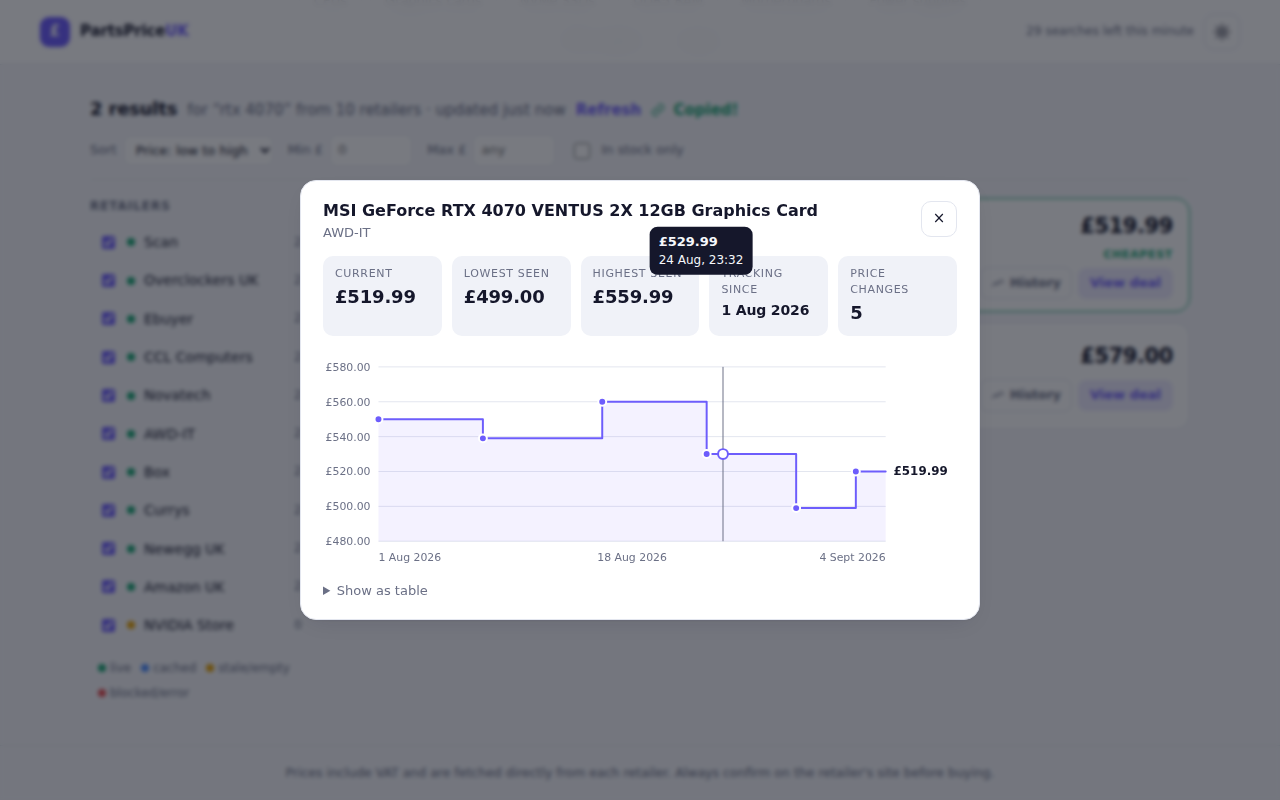
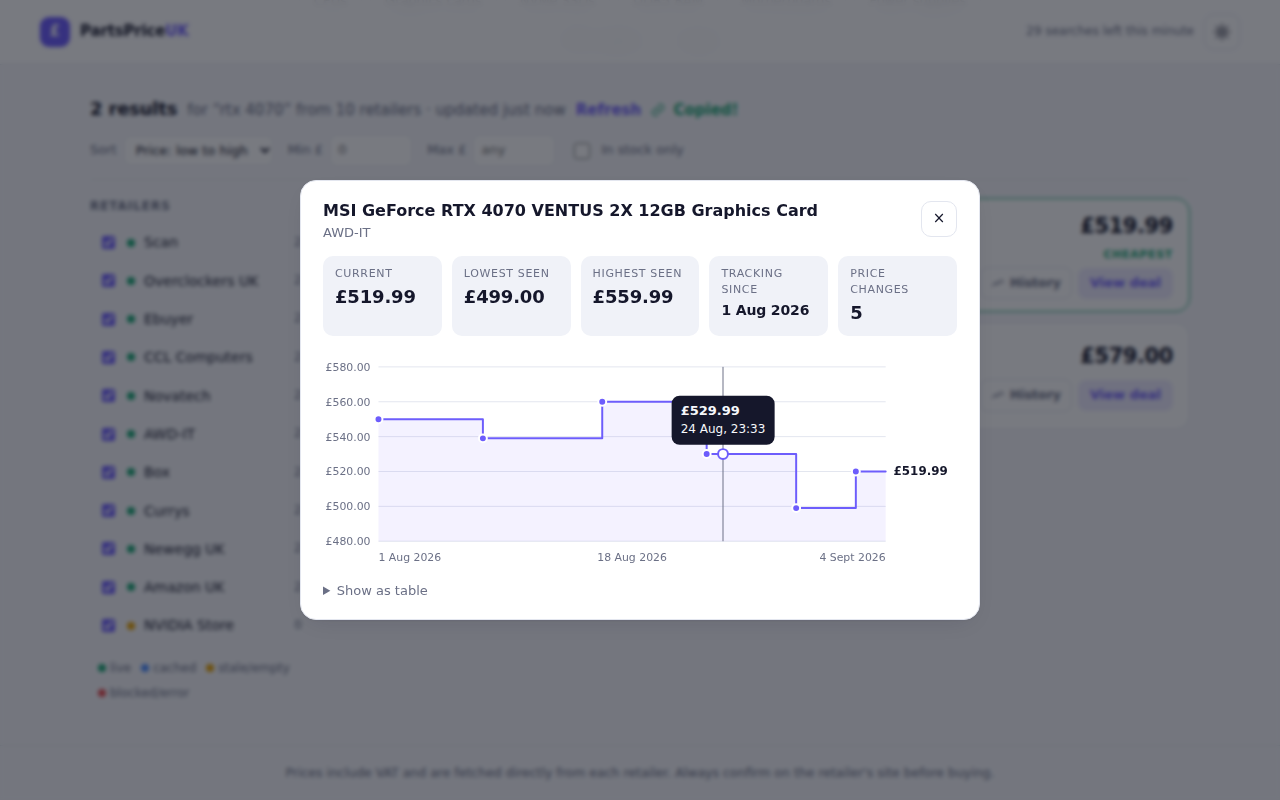
Anchor the price history tooltip to the chart box
Claude-Session: https://claude.ai/code/session_015ougPvyAGFyaDdxd93WSHc

Changed region(s): [[0.5, 0.4688, 0.625, 0.5625], [0.5, 0.2812, 0.5938, 0.3438]]

diff --git a/pc-parts-scraper/app/static/app.js b/pc-parts-scraper/app/static/app.js
@@ -332,7 +332,7 @@
     };
     svg.addEventListener("mousemove", onMove);
     svg.addEventListener("mouseleave", () => { cursor.style.opacity = 0; dot.style.opacity = 0; els.hTip.hidden = true; });
-    els.hChart.append(svg);
+    els.hChart.append(svg, els.hTip);  // tooltip is positioned relative to the chart box
   };
 
   async function openHistory(l) {
